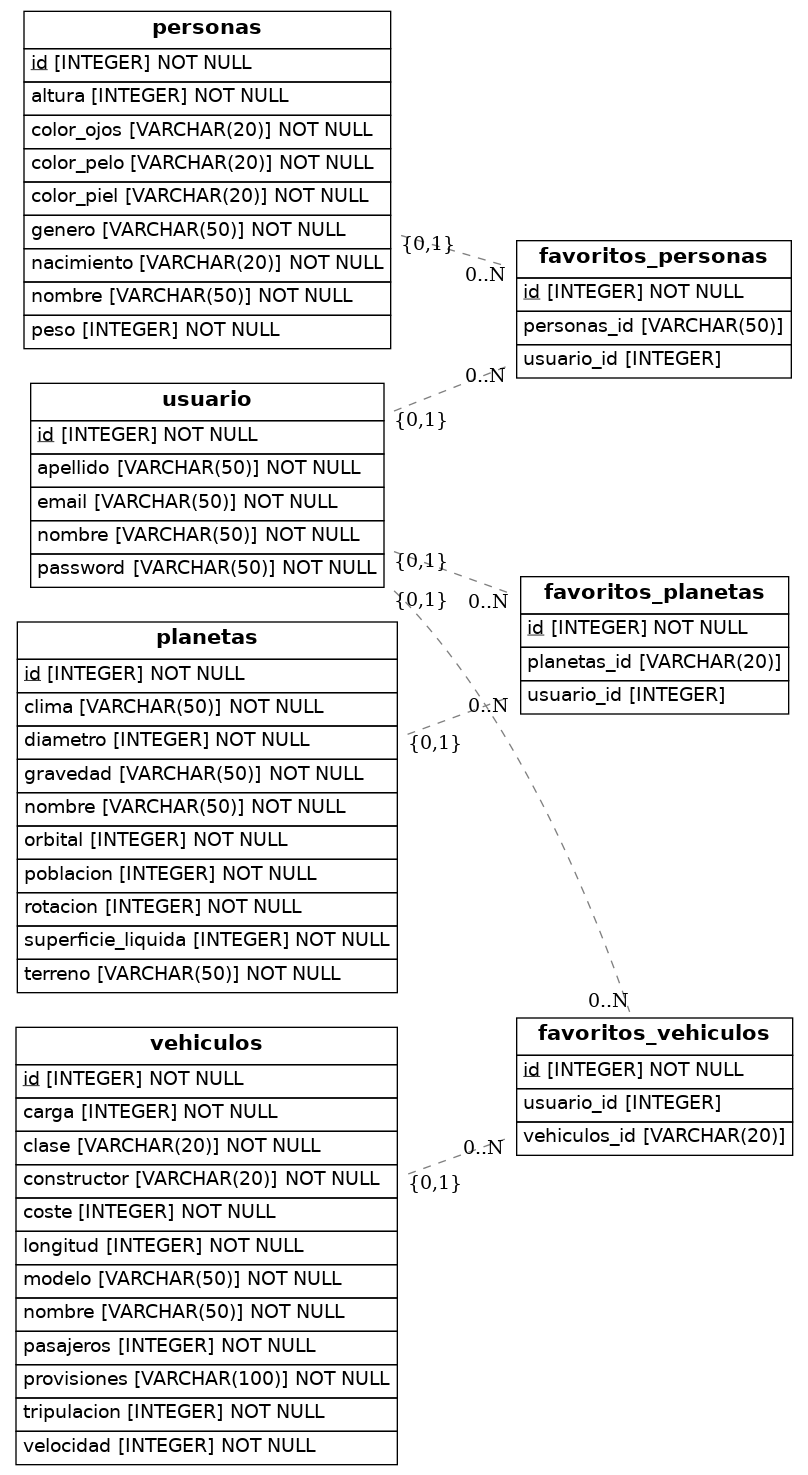
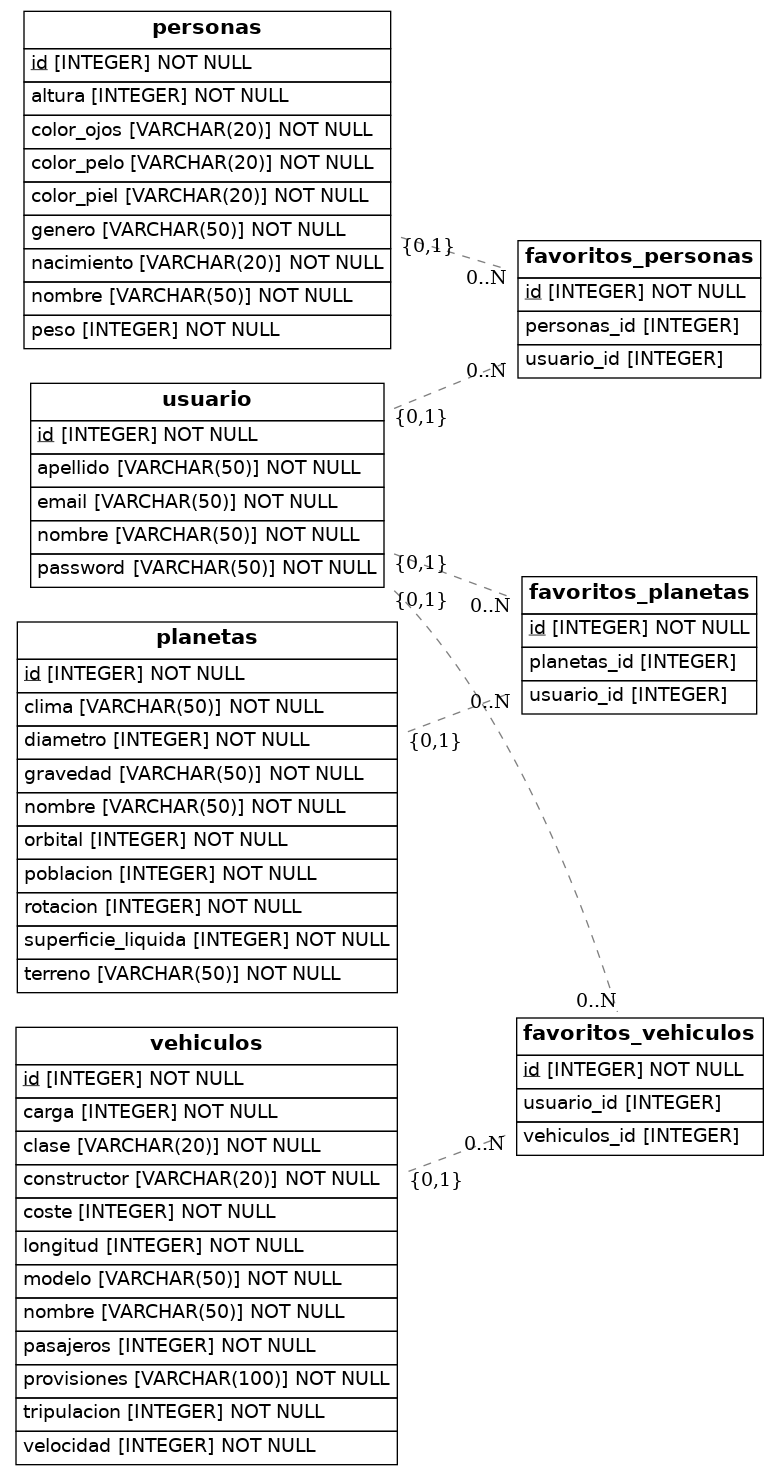
fix tables

Changed region(s): [[0.0, 0.0, 0.9859, 0.998], [0.5854, 0.3742, 0.9859, 0.499], [0.5854, 0.6549, 0.9859, 0.7797]]

diff --git a/src/models.py b/src/models.py
@@ -71,8 +71,7 @@ class Favoritos_personas(Base):
     # Here we define columns for the table person
     # Notice that each column is also a normal Python instance attribute.
     id = Column(Integer, primary_key=True)
-    usuario_id = Column(String(50), nullable=False)
-    personas_id = Column(String(50), ForeignKey('personas.id')) 
+    personas_id = Column(Integer, ForeignKey('personas.id')) 
     usuario_id = Column(Integer, ForeignKey('usuario.id'))  
     
 class Favoritos_planetas(Base):
@@ -80,8 +79,7 @@ class Favoritos_planetas(Base):
     # Here we define columns for the table person
     # Notice that each column is also a normal Python instance attribute.
     id = Column(Integer, primary_key=True)
-    usuario_id = Column(String(50), nullable=False)
-    planetas_id = Column(String(20), ForeignKey('planetas.id'))
+    planetas_id = Column(Integer, ForeignKey('planetas.id'))
     usuario_id = Column(Integer, ForeignKey('usuario.id'))  
 
 class Favoritos_vehiculos(Base):
@@ -89,8 +87,7 @@ class Favoritos_vehiculos(Base):
     # Here we define columns for the table person
     # Notice that each column is also a normal Python instance attribute.
     id = Column(Integer, primary_key=True)
-    usuario_id = Column(Integer, nullable=False)
-    vehiculos_id = Column(String(20), ForeignKey('vehiculos.id'))
+    vehiculos_id = Column(Integer, ForeignKey('vehiculos.id'))
     usuario_id = Column(Integer, ForeignKey('usuario.id'))  
   
 
